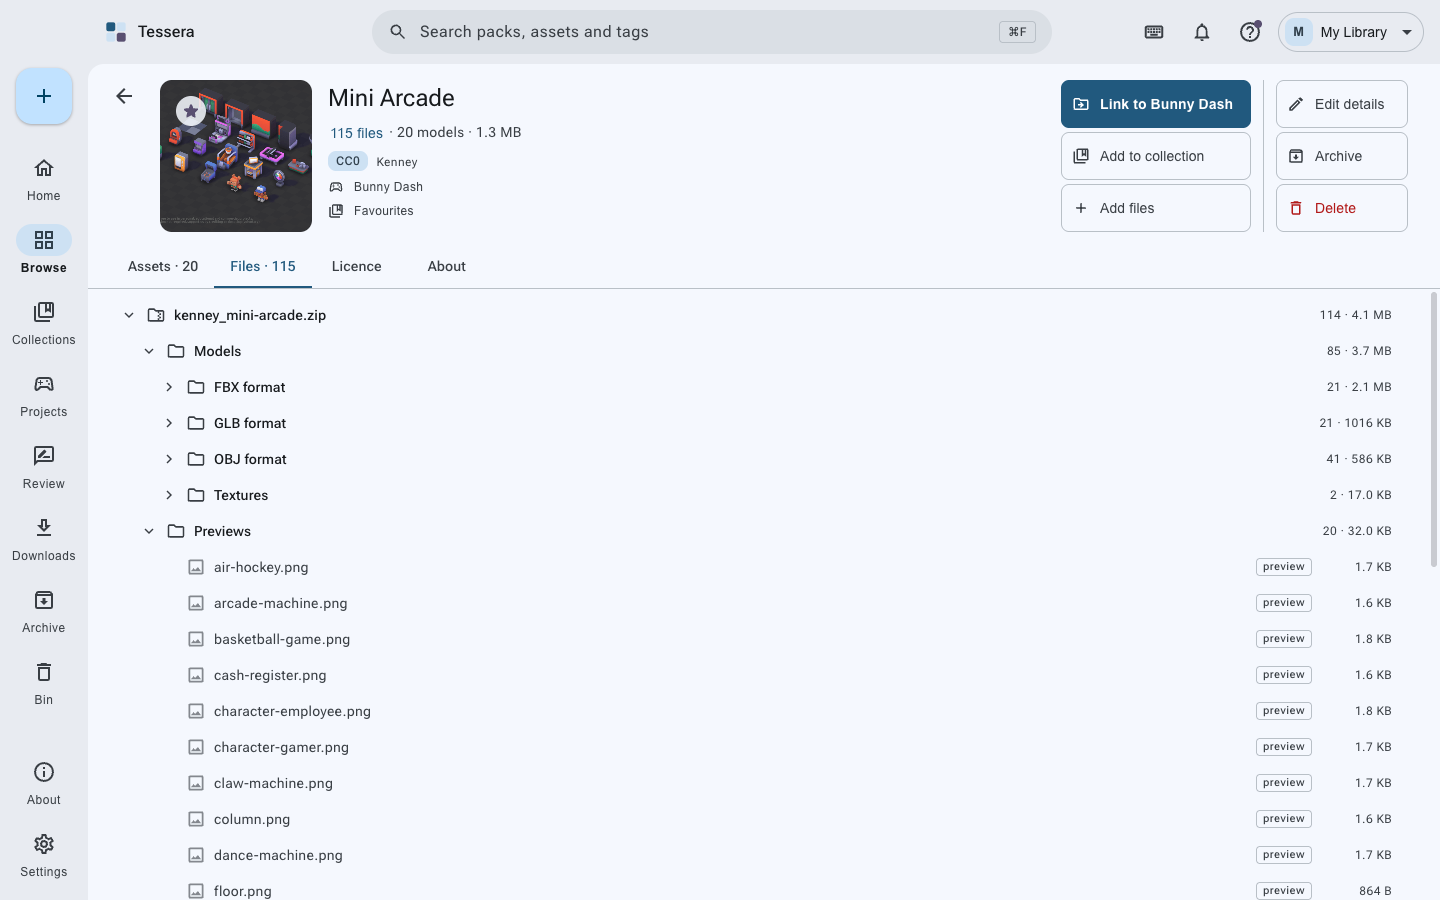
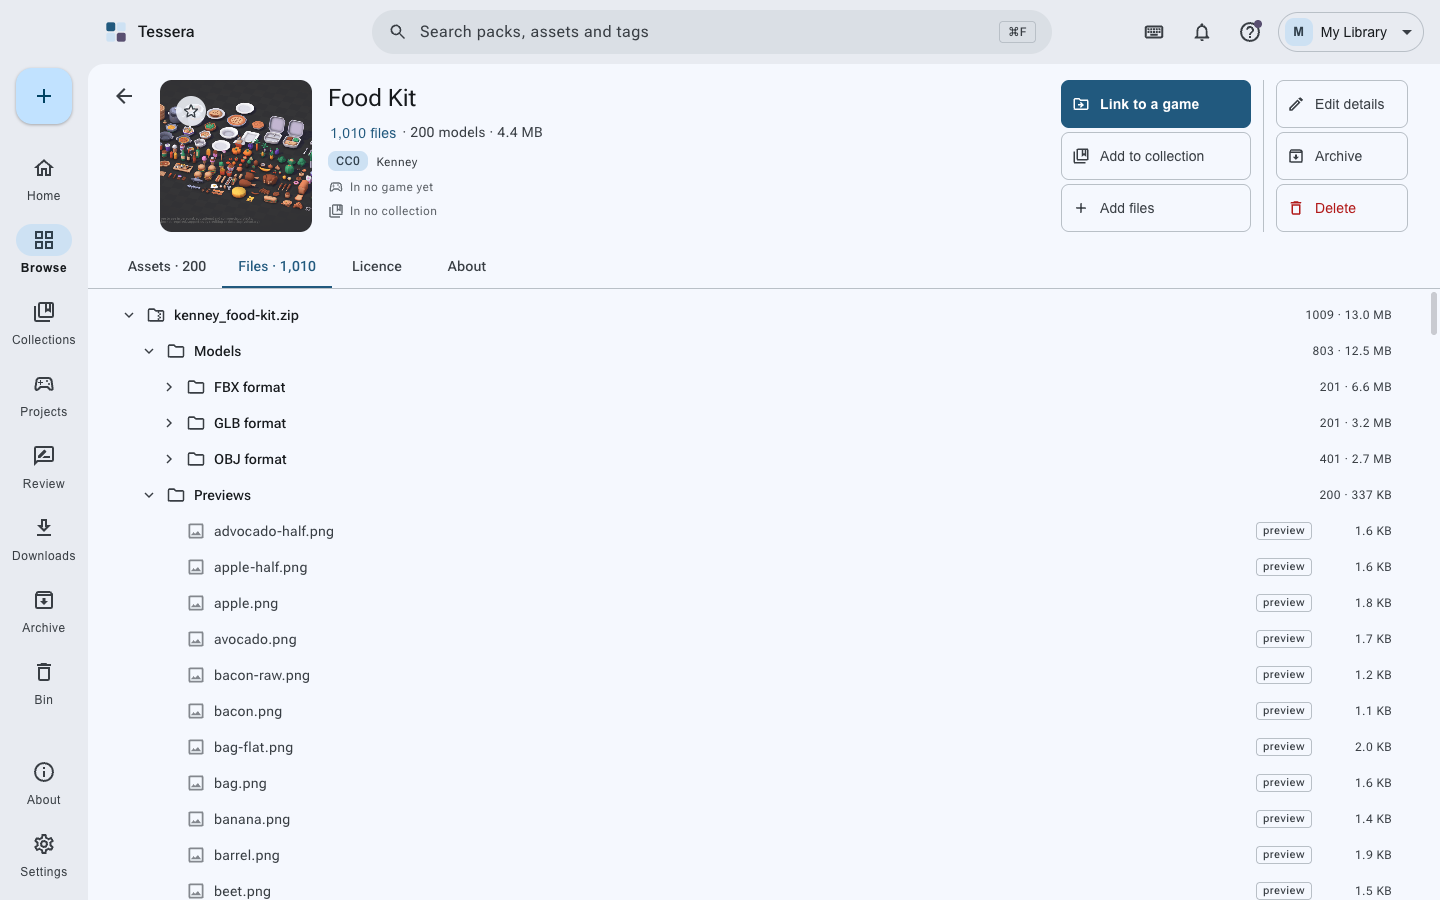
Screenshots: a pack's files tab and a game's own page, both with real content in them

diff --git a/README.md b/README.md
@@ -114,17 +114,17 @@ gh attestation verify Tessera-*.dmg -R ahmmedrejowan/tessera
 |-----------------------|------------|
 | ![The files in a pack](docs/images/05-pack-files.png) | ![The viewer](docs/images/06-viewer.png) |
 
-| Games | Collections |
-|-------|-------------|
-| ![Games](docs/images/08-games.png) | ![Collections](docs/images/07-collections.png) |
+| Games | One game |
+|-------|----------|
+| ![Games](docs/images/08-games.png) | ![A game's page](docs/images/13-project.png) |
 
-| Settings | AI agents |
-|----------|-----------|
-| ![Settings](docs/images/09-settings.png) | ![AI agents](docs/images/10-agents-settings.png) |
+| Collections | Settings |
+|-------------|----------|
+| ![Collections](docs/images/07-collections.png) | ![Settings](docs/images/09-settings.png) |
 
-| Connecting an agent | The first screen |
-|---------------------|------------------|
-| ![Connecting](docs/images/11-agents.png) | ![The first screen](docs/images/01-welcome.png) |
+| AI agents | Connecting an agent |
+|-----------|----------------------|
+| ![AI agents](docs/images/10-agents-settings.png) | ![Connecting](docs/images/11-agents.png) |
 
 ---
 
